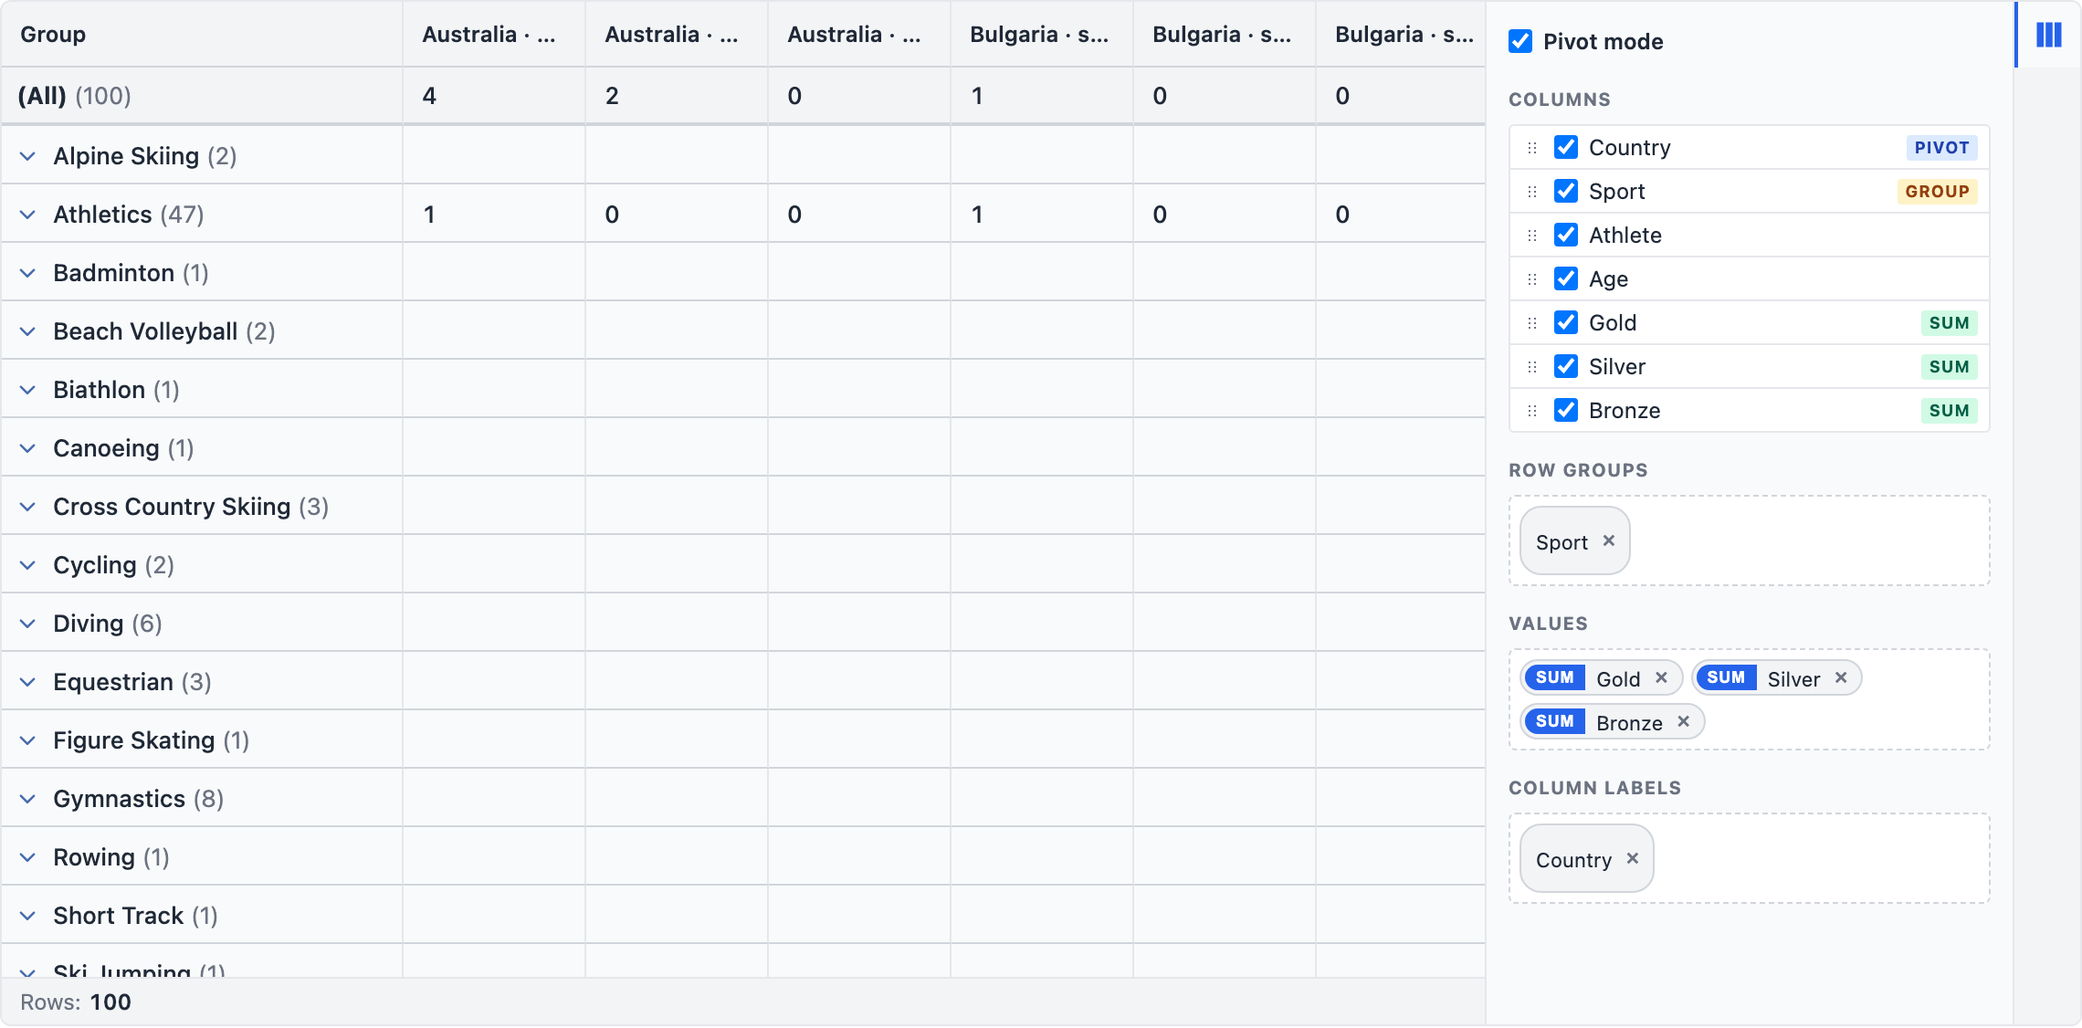
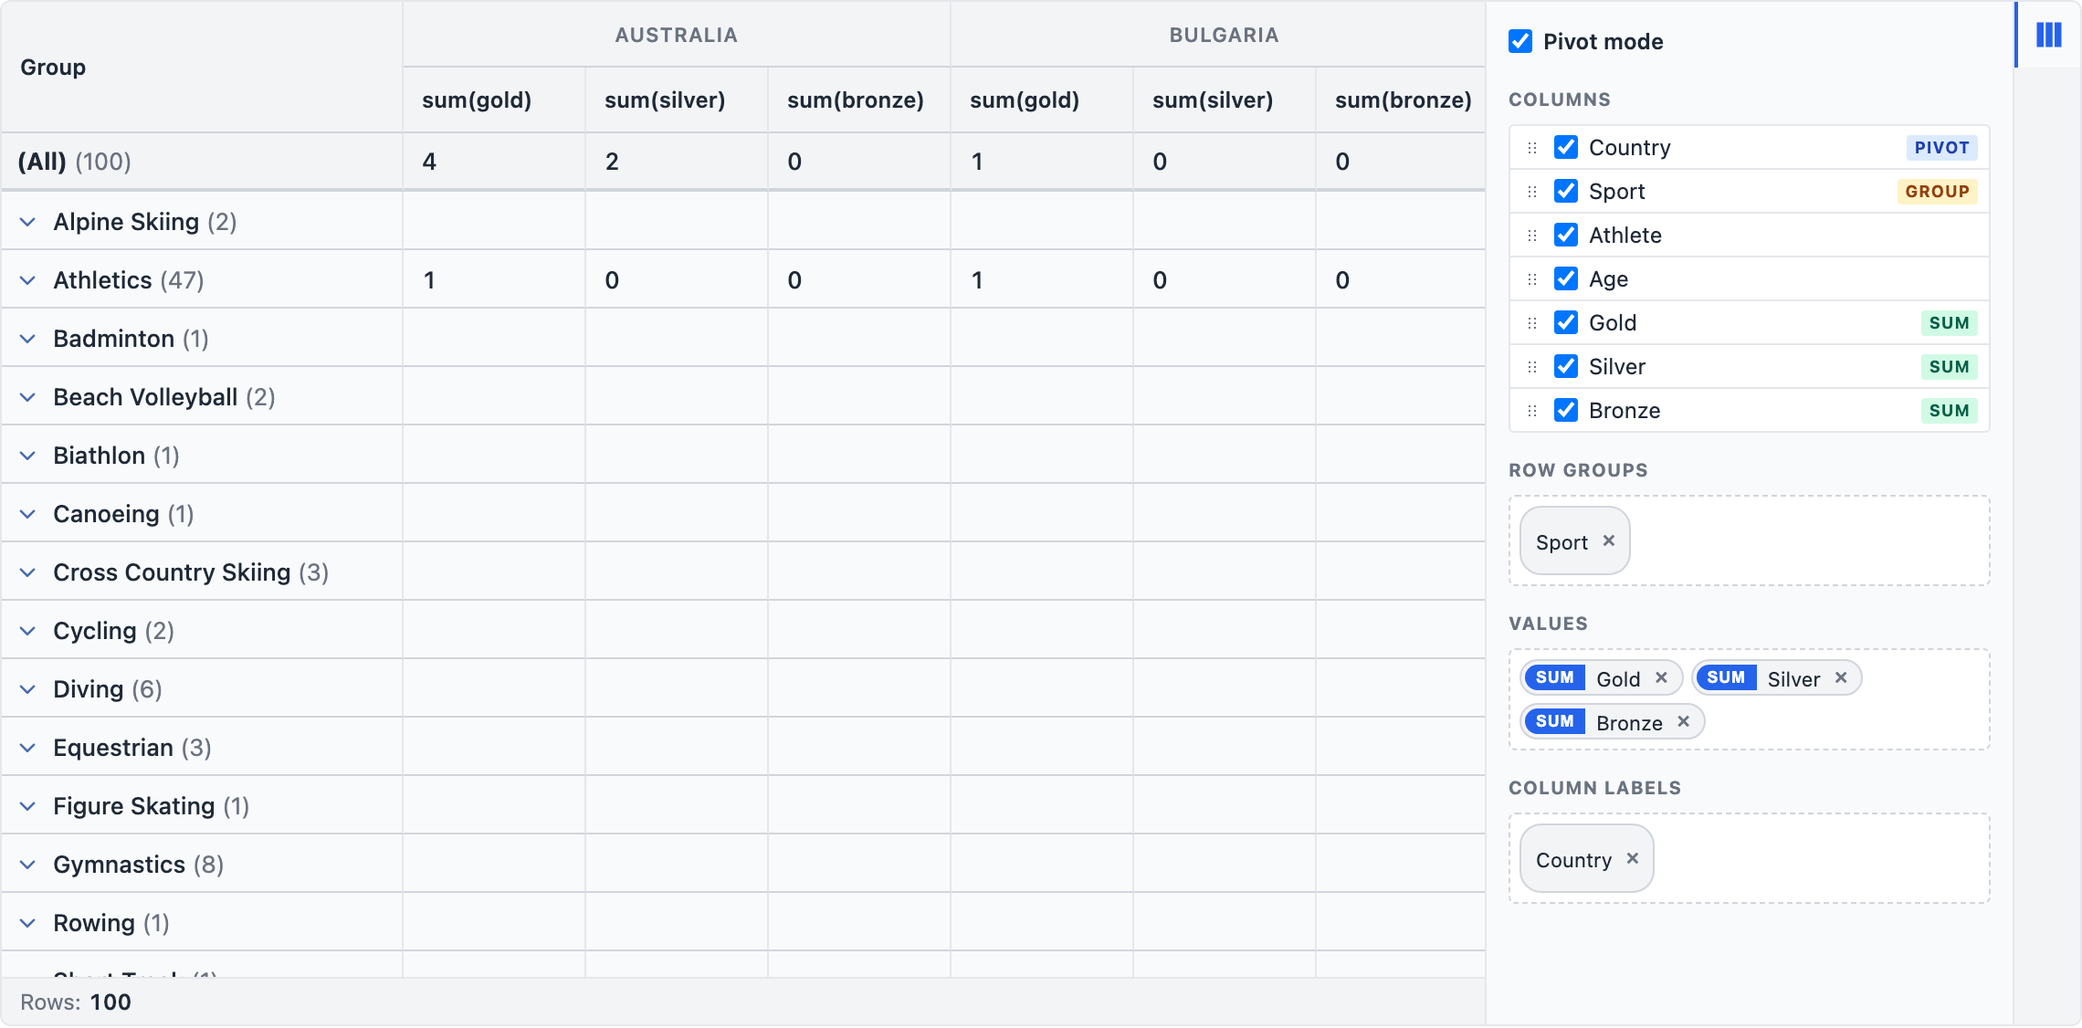
docs: column header groups + pinned bottom row — README + demo 14 + screenshots + skills
README: lede mentions both features, attribute table adds the column-groups
and pinned-bottom-row rows, gridApi summary adds the four new methods,
events list adds grid:columnGroupsChanged. New 'Column header groups
(multi-row headers) & pinned bottom row' section follows the Pivot
section, with hero screenshot of demo 14 + a table mapping pivot col/value
counts to the resulting header depth.

Demo 14 (header-groups-pinned-totals.html) showcases both features on the
athletes dataset: three presets (3 groups · only Medals · no groups) and
a pinned-row toggle, with a stat line that shows the live state.

Screenshot updates:
  - docs/images/grid-pivot.png re-shot in the multi-value preset, now
    showing the auto-derived 2-row pivot header (Australia/Bulgaria over
    sum(gold)/sum(silver)/sum(bronze))
  - docs/images/grid-header-groups.png (new) showing the ATHLETE / ORIGIN
    / MEDALS hierarchy + the TOTAL row pinned at the bottom

stimulus-grid-js SKILL: attributes + gridApi + events + a new 'Column
header groups & pinned bottom row' section between Pivot and Gotchas.
stimulus-grid-rails SKILL: locals doc lists column_groups + pinned_bottom_row.

diff --git a/demo/14-header-groups-pinned-totals.html b/demo/14-header-groups-pinned-totals.html
@@ -1,0 +1,144 @@
+<!doctype html>
+<html lang="en">
+<head>
+  <meta charset="utf-8" />
+  <title>14 — Column header groups &amp; pinned bottom row | stimulus_grid</title>
+  <meta name="viewport" content="width=device-width, initial-scale=1" />
+  <link rel="stylesheet" href="../dist/stimulus_grid.css" />
+  <style>
+    body { font-family: system-ui, sans-serif; max-width: 1000px; margin: 40px auto; padding: 0 20px; }
+    h1 { margin-bottom: 4px; }
+    p.lede { color: #6b7280; margin-top: 0; }
+    .panel { height: 480px; margin-top: 16px; }
+    .crumbs a { color: #2563eb; text-decoration: none; }
+    .toolbar { display:flex; flex-wrap:wrap; gap:8px; margin-top:12px; align-items:center; }
+    .toolbar button {
+      background:#fff; border:1px solid #d1d5db; border-radius:4px; padding:4px 10px;
+      font: inherit; cursor:pointer;
+    }
+    .toolbar button:hover { background:#f3f4f6; }
+    .toolbar button[aria-pressed="true"] { background:#2563eb; color:#fff; border-color:#2563eb; }
+    .sep { width:1px; align-self:stretch; background:#e5e7eb; margin:0 4px; }
+    .stat { color:#6b7280; font-size:13px; }
+    code { background:#f3f4f6; padding:1px 4px; border-radius:3px; font-size:.9em; }
+    .tip { margin-top: 16px; padding: 10px 14px; background: #eff6ff; border-left: 3px solid #2563eb; color:#1e3a8a; font-size: 13px; }
+  </style>
+</head>
+<body>
+  <p class="crumbs"><a href="./">← demos</a></p>
+  <h1>14 — Column header groups &amp; pinned bottom row</h1>
+  <p class="lede">
+    Stacked column headers — declare nested header groups with
+    <code>data-grid-column-groups-value</code> — paired with a sticky bottom
+    row that holds <strong>grand totals</strong> over every filtered leaf row.
+    Both features are independent and compose with sort, filter, pagination,
+    and virtual scrolling.
+  </p>
+
+  <div class="panel"
+       data-controller="grid"
+       data-grid-row-data-url-value="./data/athletes.json"
+       data-grid-agg-funcs-value='{"gold":"sum","silver":"sum","bronze":"sum","age":"avg"}'
+       data-grid-pinned-bottom-row-value="true"
+       data-grid-column-groups-value='[
+         {"headerName":"Athlete","children":["athlete","age"]},
+         {"headerName":"Origin", "children":["country","sport"]},
+         {"headerName":"Medals", "children":["gold","silver","bronze"]}
+       ]'>
+    <table>
+      <thead>
+        <tr>
+          <th data-controller="header-cell" data-header-cell-field-value="athlete"
+              data-header-cell-sortable-value="true" data-header-cell-filter-value="text"
+              data-header-cell-width-value="220">Athlete</th>
+          <th data-controller="header-cell" data-header-cell-field-value="age"
+              data-header-cell-type-value="number" data-header-cell-sortable-value="true"
+              data-header-cell-filter-value="number" data-header-cell-width-value="80">Age</th>
+          <th data-controller="header-cell" data-header-cell-field-value="country"
+              data-header-cell-sortable-value="true" data-header-cell-filter-value="text"
+              data-header-cell-width-value="170">Country</th>
+          <th data-controller="header-cell" data-header-cell-field-value="sport"
+              data-header-cell-sortable-value="true" data-header-cell-filter-value="text"
+              data-header-cell-width-value="170">Sport</th>
+          <th data-controller="header-cell" data-header-cell-field-value="gold"
+              data-header-cell-type-value="number" data-header-cell-sortable-value="true"
+              data-header-cell-width-value="80">Gold</th>
+          <th data-controller="header-cell" data-header-cell-field-value="silver"
+              data-header-cell-type-value="number" data-header-cell-sortable-value="true"
+              data-header-cell-width-value="80">Silver</th>
+          <th data-controller="header-cell" data-header-cell-field-value="bronze"
+              data-header-cell-type-value="number" data-header-cell-sortable-value="true"
+              data-header-cell-width-value="80">Bronze</th>
+        </tr>
+      </thead>
+      <tbody></tbody>
+    </table>
+  </div>
+
+  <div class="toolbar">
+    <button id="preset-three" aria-pressed="true">3 groups (Athlete · Origin · Medals)</button>
+    <button id="preset-medals">Only Medals group</button>
+    <button id="preset-none">No header groups</button>
+    <span class="sep"></span>
+    <button id="toggle-pinned" aria-pressed="true">Pinned bottom row: ON</button>
+    <span id="stat" class="stat"></span>
+  </div>
+
+  <div class="tip">
+    <strong>Try this:</strong> filter the Country column to <em>United States</em>
+    — the grand totals at the bottom recompute over the filtered rows, not the
+    underlying 100. Click any header to sort; the totals row stays glued to the
+    bottom of the viewport regardless.
+  </div>
+
+  <script src="../dist/stimulus_grid.js"></script>
+  <script>
+    StimulusGrid.start();
+
+    const grid = document.querySelector('.panel');
+    const stat = document.getElementById('stat');
+    const presets = ['preset-three','preset-medals','preset-none'];
+    const press = (id) => presets.forEach((b) =>
+      document.getElementById(b).setAttribute('aria-pressed', String(b === id)));
+
+    const update = () => {
+      const api = grid.gridApi;
+      if (!api) return;
+      const groups = api.getColumnGroups();
+      const pinned = api.isPinnedBottomRow();
+      stat.textContent = `header groups: ${groups.length} · pinned bottom row: ${pinned ? 'on' : 'off'}`;
+    };
+
+    grid.addEventListener('grid:ready', update);
+    grid.addEventListener('grid:columnGroupsChanged', update);
+
+    document.getElementById('preset-three').onclick = () => {
+      grid.gridApi.setColumnGroups([
+        { headerName: 'Athlete', children: ['athlete','age'] },
+        { headerName: 'Origin',  children: ['country','sport'] },
+        { headerName: 'Medals',  children: ['gold','silver','bronze'] },
+      ]);
+      press('preset-three');
+    };
+    document.getElementById('preset-medals').onclick = () => {
+      grid.gridApi.setColumnGroups([
+        { headerName: 'Medals',  children: ['gold','silver','bronze'] },
+      ]);
+      press('preset-medals');
+    };
+    document.getElementById('preset-none').onclick = () => {
+      grid.gridApi.setColumnGroups([]);
+      press('preset-none');
+    };
+
+    const togglePinned = document.getElementById('toggle-pinned');
+    togglePinned.onclick = () => {
+      const next = !grid.gridApi.isPinnedBottomRow();
+      grid.gridApi.setPinnedBottomRow(next);
+      togglePinned.setAttribute('aria-pressed', String(next));
+      togglePinned.textContent = `Pinned bottom row: ${next ? 'ON' : 'OFF'}`;
+      update();
+    };
+  </script>
+</body>
+</html>

diff --git a/demo/index.html b/demo/index.html
@@ -41,6 +41,7 @@
     <li><a href="./11-row-grouping.html">11 — Row grouping &amp; aggregation</a></li>
     <li><a href="./12-status-bar.html">12 — Status bar (row counts + range aggregates)</a></li>
     <li><a href="./13-pivot-side-panel.html">13 — Pivot mode &amp; side panel (drag-driven)</a></li>
+    <li><a href="./14-header-groups-pinned-totals.html">14 — Column header groups &amp; pinned bottom row</a></li>
   </ul>
 
   <p style="margin-top:40px;color:#6b7280;font-size:13px;">

diff --git a/README.md b/README.md
@@ -8,7 +8,7 @@ An **HTML-first data grid for [Stimulus.js](https://stimulus.hotwired.dev/) (Hot
 Drop `data-controller="grid"` on a `<table>`, describe columns with `data-*`
 attributes, and you get sort, filter, global search, single/multi selection,
 pagination, inline editing, custom cell renderers **and editors**, column
-resize/reorder/pin/hide, virtual scrolling for large datasets, row grouping with per-group aggregation, a spreadsheet-style **status bar** with live range aggregates, **pivot mode** with a drag-driven **side panel** for groups/pivots/values, and a public
+resize/reorder/pin/hide, virtual scrolling for large datasets, row grouping with per-group aggregation, a spreadsheet-style **status bar** with live range aggregates, **pivot mode** with a drag-driven **side panel** for groups/pivots/values, **multi-row column header groups** (auto-derived in pivot mode), a sticky **pinned bottom row** for grand totals, and a public
 `gridApi` — no React, no build-time config object, no third-party grid framework.
 With the optional [`stimulus_grid_rails`](gem/stimulus_grid_rails) companion,
 edits also **stream live to every connected client over Turbo Streams** (Action
@@ -147,6 +147,8 @@ column on the left. Collapsed here to country subtotals:
 | `status-bar` / `status-bar-aggs` | enable the bottom status bar (default `false`) and pick which range aggregates to show (default `["count","sum","avg","min","max"]`) |
 | `pivot-mode` / `pivot-cols` | reshape into a pivot table (default `false`); `pivot-cols` is a JSON array of fields whose unique values become columns. Requires at least one `agg-funcs` entry to populate cells |
 | `side-panel` | render a right-side tool panel for drag-driven row groups / pivots / value aggregations + column visibility (default `false`) |
+| `column-groups` | JSON array of multi-row header groups: `[{"headerName":"Medals","children":["gold","silver","bronze"]}]`. Pivot mode auto-derives nested headers from `pivot-cols` + `agg-funcs`; this attribute is for non-pivot grids |
+| `pinned-bottom-row` | render a sticky bottom row holding grand totals over the currently filtered leaves, computed from `agg-funcs` (default `false`) |
 
 ## Column attributes (`data-header-cell-*-value`, on each `<th>`)
 
@@ -172,6 +174,8 @@ Available after the `grid:ready` event. Highlights:
 - **Row grouping:** `setRowGroupColumns([...])`, `addRowGroupColumn`, `removeRowGroupColumn`, `getRowGroupColumns`, `setColumnAggFunc(field, fn)` (`sum`/`avg`/`min`/`max`/`count`/`first`/`last`), `expandAll`, `collapseAll`
 - **Pivot:** `setPivotMode(on)`, `isPivotMode()`, `setPivotColumns([...])`, `addPivotColumn`, `removePivotColumn`, `getPivotColumns`
 - **Value columns** (aggregations — shared with grouping): `setValueColumns([{field,aggFunc}])`, `addValueColumn(field, aggFunc?)`, `removeValueColumn`, `getValueColumns`
+- **Column header groups:** `setColumnGroups([{headerName, children:[field,...]}])`, `getColumnGroups()`
+- **Pinned bottom row:** `setPinnedBottomRow(on)`, `isPinnedBottomRow()`
 
 ## Events (dispatched on the grid element)
 
@@ -182,7 +186,8 @@ Available after the `grid:ready` event. Highlights:
 `grid:paginationChanged` · `grid:columnMoved/Pinned/Resized/Visible` ·
 `grid:columnRowGroupChanged` · `grid:groupToggled` ·
 `grid:columnPivotChanged` (`{pivotCols}`) · `grid:pivotModeChanged` (`{pivot}`) ·
-`grid:columnValueChanged` (`{valueCols}`).
+`grid:columnValueChanged` (`{valueCols}`) ·
+`grid:columnGroupsChanged` (`{columnGroups}`).
 
 ```js
 grid.addEventListener("grid:ready", (e) => e.detail.api.setRowData(rows))
@@ -376,6 +381,60 @@ Click the tab icon on the panel's right edge to collapse to just the tab strip.
 **Events:** `grid:pivotModeChanged` (`{pivot}`), `grid:columnPivotChanged`
 (`{pivotCols}`) and `grid:columnValueChanged` (`{valueCols}`) fire on the matching
 state changes. See **[demo 13](demo/13-pivot-side-panel.html)** for the full UX.
+
+## Column header groups (multi-row headers) & pinned bottom row
+
+Stacked column headers and an always-visible totals row, independently
+toggled. **Column header groups** wrap one or more leaf columns under a
+common parent header (`Medals` over Gold / Silver / Bronze); the grid renders
+as many rows as the deepest group nesting requires. In **pivot mode** the
+grid auto-derives nested headers from each pivot col's `pivotKeys` + the
+value field/agg — no extra config needed. The **pinned bottom row** sticks
+to the floor of the body viewport regardless of scroll position and shows
+grand totals over the currently filtered leaves, using the same `agg-funcs`
+declarations as group/pivot aggregations.
+
+![stimulus_grid with three header groups — ATHLETE (Athlete + Age), ORIGIN (Country + Sport), MEDALS (Gold + Silver + Bronze) — stacked above the leaf headers, and a pinned TOTAL row at the bottom showing the grand totals (average age 26.76, gold 162, silver 36, bronze 24) over every filtered row](docs/images/grid-header-groups.png)
+
+Declare them on the grid element:
+
+```html
+<div data-controller="grid"
+     data-grid-row-data-url-value="/athletes.json"
+     data-grid-agg-funcs-value='{"gold":"sum","silver":"sum","bronze":"sum","age":"avg"}'
+     data-grid-pinned-bottom-row-value="true"
+     data-grid-column-groups-value='[
+       {"headerName":"Athlete","children":["athlete","age"]},
+       {"headerName":"Origin", "children":["country","sport"]},
+       {"headerName":"Medals", "children":["gold","silver","bronze"]}
+     ]'>
+  <!-- …columns… -->
+</div>
+```
+
+| Attribute | Value |
+|---|---|
+| `column-groups` | JSON array of `{headerName, children: [field]}`. Each leaf column appears under at most one group; cols not in any group span all header rows. v1 supports one level of grouping; pivot-derived headers can be arbitrarily deep |
+| `pinned-bottom-row` | `true` renders the sticky bottom totals row (default `false`). Filtered out in pivot mode because the `(All)` totals row already serves that role at the top |
+
+…or drive at runtime:
+
+```js
+api.setColumnGroups([{ headerName:"Medals", children:["gold","silver","bronze"] }])
+api.setPinnedBottomRow(true)
+```
+
+**Auto-grouping in pivot mode.** When a pivot would otherwise produce a busy
+single-row header, header groups kick in automatically:
+
+- 1 pivot col, 1 value → flat headers (`Swimming`, `Athletics`, …)
+- 1 pivot col, *M* values → 2 rows: pivot value on top, `agg(field)` underneath
+- *N* pivot cols, 1 value → *N* rows: deepest pivot field becomes the leaf label
+- *N* pivot cols, *M* values → *N+1* rows: every pivot field + the value tier
+
+The two "Gold" sub-headers under different parent years don't collapse — runs
+only merge when the **full path** matches up to the row above. **Events:**
+`grid:columnGroupsChanged` (`{columnGroups}`). See **[demo 14](demo/14-header-groups-pinned-totals.html)** for the user-declared groups + pinned totals.
 
 ## Rails & Hotwire (`stimulus_grid_rails`)
 

diff --git a/skills/stimulus-grid-js/SKILL.md b/skills/stimulus-grid-js/SKILL.md
@@ -76,7 +76,9 @@ Each row needs a stable id. Default field is `id`; override with
 `data-grid-row-group-cols-value` (JSON array) · `data-grid-agg-funcs-value` (JSON `{field:fn}`) · `data-grid-group-default-expanded-value` (`-1` all · `0` none · `N` levels) · `data-grid-group-display-type-value` (`'singleColumn'` default · `'inline'`) · `data-grid-group-reorder-columns-value` (inline mode only, default `true`) ·
 `data-grid-status-bar-value` (default `false`) · `data-grid-status-bar-aggs-value` (JSON array, default `["count","sum","avg","min","max"]`) ·
 `data-grid-pivot-mode-value` (default `false`) · `data-grid-pivot-cols-value` (JSON array of fields whose unique values become columns) ·
-`data-grid-side-panel-value` (default `false` — render the right-side drag-driven groups/pivots/values panel).
+`data-grid-side-panel-value` (default `false` — render the right-side drag-driven groups/pivots/values panel) ·
+`data-grid-column-groups-value` (JSON array of multi-row header groups: `[{headerName, children:[field,...]}]`) ·
+`data-grid-pinned-bottom-row-value` (default `false` — sticky bottom row with grand totals computed from `agg-funcs`).
 
 ## Column attributes (on each `<th data-controller="header-cell">`)
 
@@ -108,6 +110,8 @@ api.getRangeAggregates()                       // {count,sum,avg,min,max} for th
 api.setPivotMode(true); api.setPivotColumns(["sport"])          // reshape into a pivot table
 api.setValueColumns([{ field:"gold", aggFunc:"sum" }])          // cell aggregations (also drives group totals)
 api.getPivotColumns(); api.getValueColumns(); api.isPivotMode() // read pivot/value state
+api.setColumnGroups([{ headerName:"Medals", children:["gold","silver","bronze"] }])  // multi-row headers
+api.setPinnedBottomRow(true)                                    // sticky grand-totals row at the bottom
 ```
 
 `applyTransaction` matches rows by id — pass objects carrying the same id type as
@@ -124,7 +128,7 @@ status-bar aggregates change) · `grid:filterChanged` · `grid:sortChanged` ·
 `grid:paginationChanged` · `grid:columnMoved`/`Pinned`/`Resized`/`Visible` ·
 `grid:columnRowGroupChanged` · `grid:groupToggled` ·
 `grid:pivotModeChanged` (`{pivot}`) · `grid:columnPivotChanged` (`{pivotCols}`) ·
-`grid:columnValueChanged` (`{valueCols}`).
+`grid:columnValueChanged` (`{valueCols}`) · `grid:columnGroupsChanged` (`{columnGroups}`).
 
 ```js
 grid.addEventListener("grid:ready", (e) => e.detail.api.setRowData(rows))
@@ -292,6 +296,37 @@ Events: `grid:pivotModeChanged` · `grid:columnPivotChanged` (`{pivotCols}`) ·
 `grid:columnValueChanged` (`{valueCols}`). Sorting on the synthetic pivot
 columns is disabled in this release; filters still apply to the underlying
 leaf rows before the pivot.
+
+## Column header groups & pinned bottom row
+
+Two independent layout features. **Column header groups** stack a row of
+parent headers above the leaf headers; **pinned bottom row** glues a grand-
+totals row to the bottom of the viewport.
+
+```html
+<div data-controller="grid"
+     data-grid-agg-funcs-value='{"gold":"sum","silver":"sum","age":"avg"}'
+     data-grid-pinned-bottom-row-value="true"
+     data-grid-column-groups-value='[
+       {"headerName":"Medals","children":["gold","silver","bronze"]}
+     ]'>
+```
+
+```js
+api.setColumnGroups([{ headerName:"Medals", children:["gold","silver","bronze"] }])
+api.setPinnedBottomRow(true)
+```
+
+Pivot mode **auto-derives** nested headers from each pivot col's `pivotKeys` +
+the value field/agg — no extra config needed. The header gets one row per
+pivot field (plus one for the value tier when there are multiple value
+configs). Same-labelled sub-groups under different parents don't merge.
+
+The pinned bottom row uses `grandTotals` from the configured `agg-funcs` over
+the currently filtered leaves; it's suppressed in pivot mode because the
+`(All)` totals row already serves that role at the top. Event:
+`grid:columnGroupsChanged` (`{columnGroups}`). v1 limits user-declared
+groups to one level; pivot-derived groups can be arbitrarily deep.
 
 ## Gotchas
 

diff --git a/skills/stimulus-grid-rails/SKILL.md b/skills/stimulus-grid-rails/SKILL.md
@@ -127,9 +127,15 @@ subset/reorder of `count`, `sum`, `avg`, `min`, `max`),
 the grid class's `agg_funcs` declarations), `pivot_cols:` (array of fields
 whose unique values become columns), `side_panel:` (default false — render the
 right-side drag-driven panel that drives row groups / pivot columns / value
-aggregations + column visibility through the public `gridApi`). The partial
-renders the table, columns, rows, pagination nav, and the `turbo_stream_from`
-subscription. Wrap or style `.sgr-panel` to give it a height.
+aggregations + column visibility through the public `gridApi`),
+`column_groups:` (array of multi-row header group defs
+`[{ headerName:, children: [field…] }]`; pivot mode auto-derives nested
+headers from `pivot_cols` so this is for non-pivot grids),
+`pinned_bottom_row:` (default false — sticky bottom row holding grand totals
+computed from the grid class's `agg_funcs`, over the currently filtered
+leaves). The partial renders the table, columns, rows, pagination nav, and
+the `turbo_stream_from` subscription. Wrap or style `.sgr-panel` to give it
+a height.
 
 ## What you get out of the box
 
